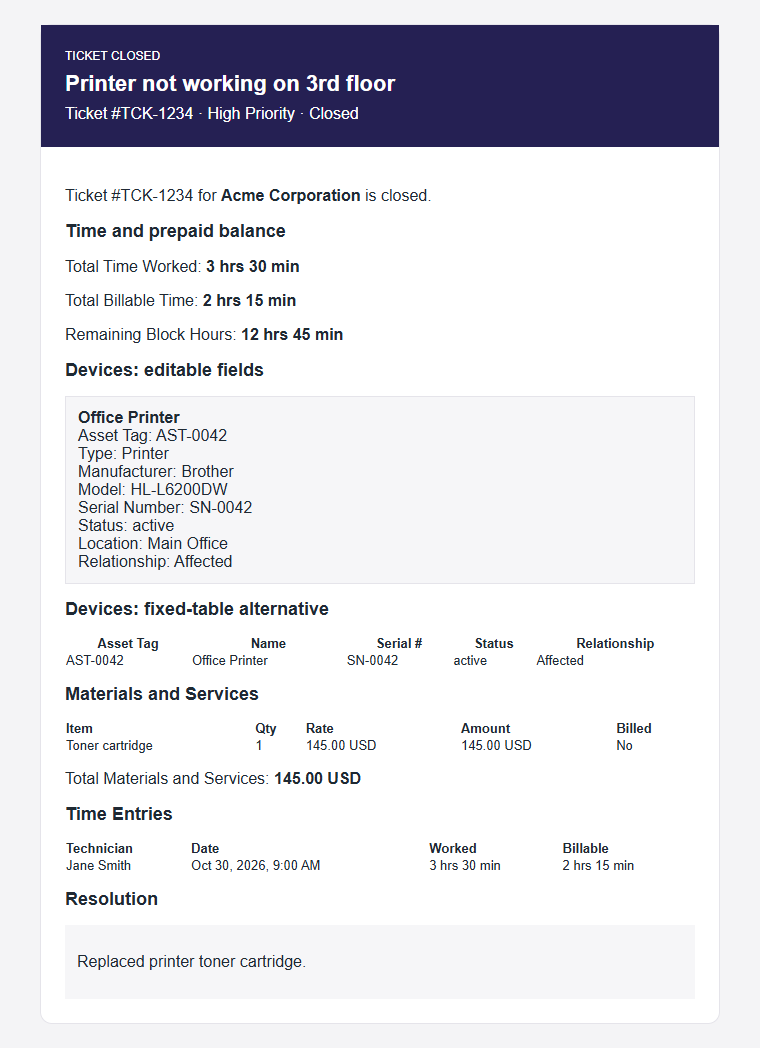
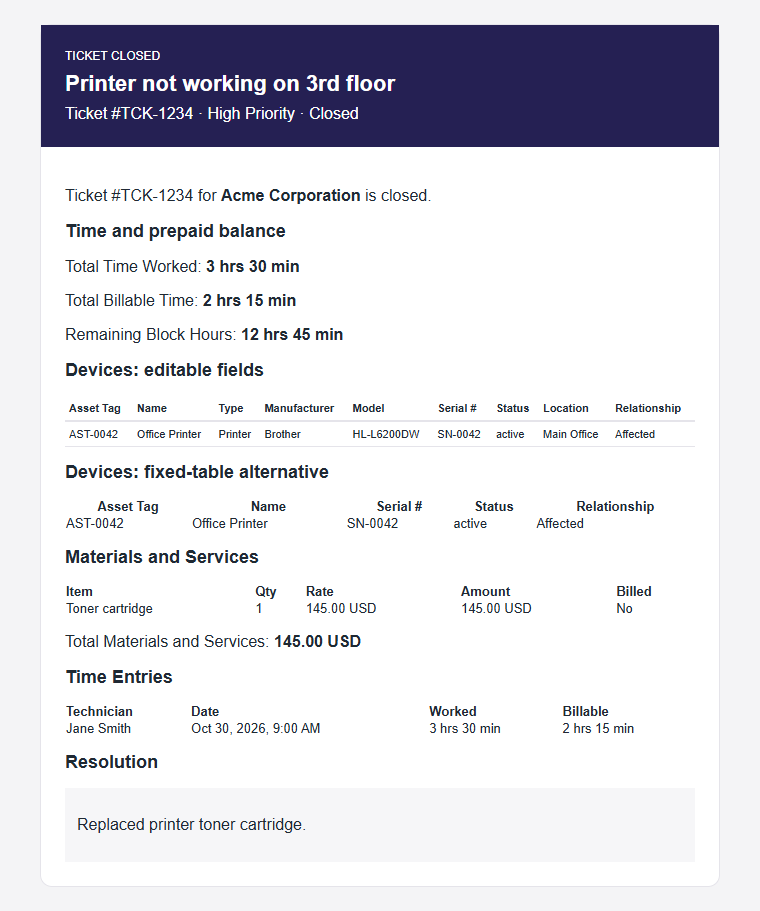
fix: present editable email asset fields as tables
Use selectable table columns in the variable example and HTML editing guide; regenerate full-field and omitted-column screenshots.

diff --git a/packages/notifications/src/lib/templateVariables/seed.ts b/packages/notifications/src/lib/templateVariables/seed.ts
@@ -2933,9 +2933,9 @@ export const templateVariableSeed: TemplateVariableSeedCategory[] = [
             "path": "ticket.assets",
             "type": "array",
             "description": "Linked ticket assets with individually selectable fields. Use {{#each ticket.assets}} to control the HTML or plain-text layout; include only the fields you want.",
-            "example": "{{#each ticket.assets}}<div><strong>{{name}}</strong><br>Type: {{assetType}}<br>{{manufacturer}} {{model}}<br>Serial: {{serialNumber}}</div>{{/each}}",
+            "example": "<table style=\"border-collapse:collapse;width:100%;table-layout:fixed;font-size:13px;text-align:left;\"><thead><tr><th style=\"padding:6px 10px;border-bottom:2px solid #e5e4ea;\">Name</th><th style=\"padding:6px 10px;border-bottom:2px solid #e5e4ea;\">Type</th><th style=\"padding:6px 10px;border-bottom:2px solid #e5e4ea;\">Manufacturer / Model</th><th style=\"padding:6px 10px;border-bottom:2px solid #e5e4ea;\">Serial #</th></tr></thead><tbody>{{#each ticket.assets}}<tr style=\"vertical-align:top;overflow-wrap:anywhere;\"><td style=\"padding:6px 10px;border-bottom:1px solid #e5e4ea;\">{{name}}</td><td style=\"padding:6px 10px;border-bottom:1px solid #e5e4ea;\">{{assetType}}</td><td style=\"padding:6px 10px;border-bottom:1px solid #e5e4ea;\">{{manufacturer}} {{model}}</td><td style=\"padding:6px 10px;border-bottom:1px solid #e5e4ea;\">{{serialNumber}}</td></tr>{{/each}}</tbody></table>",
             "availability": "available-unused",
-            "notes": "Added 2026-10-30. All fields are optional in your markup, including assetTag. Inside the loop use {{assetTag}}, {{name}}, {{assetType}}, {{manufacturer}}, {{model}}, {{serialNumber}}, {{status}}, {{location}}, or {{relationship}}. Use double braces to escape asset values safely; {{#if serialNumber}}Serial: {{serialNumber}}{{/if}} hides missing values. Empty list when no assets are linked. The example deliberately omits assetTag, status, location, and relationship; add or remove lines as desired. ticket.assetsHtml remains the fixed-layout alternative."
+            "notes": "Added 2026-10-30. All fields are optional in your markup, including assetTag. Inside the row loop use {{assetTag}}, {{name}}, {{assetType}}, {{manufacturer}}, {{model}}, {{serialNumber}}, {{status}}, {{location}}, or {{relationship}}. Use double braces to escape asset values safely. Empty list when no assets are linked. The editable table example deliberately omits assetTag, status, location, and relationship. To add or omit a column, change both its header th and its row td; retain empty cells for missing values so columns stay aligned. ticket.assetsHtml remains the fixed-layout alternative."
           },
           {
             "path": "ticket.assets[].assetTag",

diff --git a/packages/notifications/src/lib/templateVariables/registry.test.ts b/packages/notifications/src/lib/templateVariables/registry.test.ts
@@ -27,6 +27,9 @@ describe("email template variable registry", () => {
     const example = entry.variables.find((variable) => variable.path === "ticket.assets")!;
     const data = getNestedTemplateExampleData("ticket-closed");
     const html = Handlebars.compile(example.example, { strict: true })(data);
+    expect(html).toContain("<table");
+    expect(html.match(/<th /g)).toHaveLength(4);
+    expect(html.match(/<td /g)).toHaveLength(4);
     expect(html).toContain("Office Printer");
     expect(html).toContain("Printer");
     expect(html).toContain("Brother HL-L6200DW");

diff --git a/packages/notifications/src/components/settings/EmailTemplatePreview.test.ts b/packages/notifications/src/components/settings/EmailTemplatePreview.test.ts
@@ -30,6 +30,9 @@ describe('replaceTemplateVariables #each handling', () => {
     expect(html).toContain('Office Printer');
     expect(html).toContain('Brother HL-L6200DW');
     expect(html).toContain('SN-0042');
+    expect(html).toContain('<table');
+    expect(html.match(/<th /g)).toHaveLength(4);
+    expect(html.match(/<td /g)).toHaveLength(4);
     expect(html).not.toContain('{{');
     expect(html).not.toContain('AST-0042');
     expect(replaceTemplateVariables('{{#each ticket.assets}}{{this.assetTag}}{{/each}}', data)).toBe('AST-0042');

diff --git a/packages/notifications/src/components/settings/TemplateVariableReference.tsx b/packages/notifications/src/components/settings/TemplateVariableReference.tsx
@@ -18,7 +18,7 @@ const DOCUMENTATION_URL =
   "https://algapsa.com/documentation/email-template-variables";
 
 function tokenFor(variable: VariableDef): string {
-  if (variable.type === "array" && variable.example.startsWith("{{#each ")) {
+  if (variable.type === "array" && variable.example.includes("{{#each ")) {
     return variable.example;
   }
   const path = variable.path.includes("[].")

diff --git a/docs/email/editing-ticket-email-html.md b/docs/email/editing-ticket-email-html.md
@@ -92,19 +92,36 @@ documentation only; normally choose one. The stock template is not replaced.
 
         {{#if ticket.assets}}
         <h2 style="font-size:18px;">Devices: editable fields</h2>
-        {{#each ticket.assets}}
-        <div style="padding:12px;margin:12px 0;background:#f6f6f8;border:1px solid #e5e4ea;">
-          <strong>{{name}}</strong><br>
-          Asset Tag: {{assetTag}}<br>
-          Type: {{assetType}}<br>
-          Manufacturer: {{manufacturer}}<br>
-          Model: {{model}}<br>
-          Serial Number: {{serialNumber}}<br>
-          Status: {{status}}<br>
-          Location: {{location}}<br>
-          Relationship: {{relationship}}
-        </div>
-        {{/each}}
+        <table cellpadding="0" cellspacing="0" style="border-collapse:collapse;width:100%;font-size:11px;color:#1f2933;">
+          <thead>
+            <tr style="text-align:left;vertical-align:top;">
+              <th style="padding:6px 4px;border-bottom:2px solid #e5e4ea;">Asset Tag</th>
+              <th style="padding:6px 4px;border-bottom:2px solid #e5e4ea;">Name</th>
+              <th style="padding:6px 4px;border-bottom:2px solid #e5e4ea;">Type</th>
+              <th style="padding:6px 4px;border-bottom:2px solid #e5e4ea;">Manufacturer</th>
+              <th style="padding:6px 4px;border-bottom:2px solid #e5e4ea;">Model</th>
+              <th style="padding:6px 4px;border-bottom:2px solid #e5e4ea;">Serial #</th>
+              <th style="padding:6px 4px;border-bottom:2px solid #e5e4ea;">Status</th>
+              <th style="padding:6px 4px;border-bottom:2px solid #e5e4ea;">Location</th>
+              <th style="padding:6px 4px;border-bottom:2px solid #e5e4ea;">Relationship</th>
+            </tr>
+          </thead>
+          <tbody>
+            {{#each ticket.assets}}
+            <tr style="vertical-align:top;overflow-wrap:anywhere;">
+              <td style="padding:6px 4px;border-bottom:1px solid #e5e4ea;">{{assetTag}}</td>
+              <td style="padding:6px 4px;border-bottom:1px solid #e5e4ea;">{{name}}</td>
+              <td style="padding:6px 4px;border-bottom:1px solid #e5e4ea;">{{assetType}}</td>
+              <td style="padding:6px 4px;border-bottom:1px solid #e5e4ea;">{{manufacturer}}</td>
+              <td style="padding:6px 4px;border-bottom:1px solid #e5e4ea;">{{model}}</td>
+              <td style="padding:6px 4px;border-bottom:1px solid #e5e4ea;">{{serialNumber}}</td>
+              <td style="padding:6px 4px;border-bottom:1px solid #e5e4ea;">{{status}}</td>
+              <td style="padding:6px 4px;border-bottom:1px solid #e5e4ea;">{{location}}</td>
+              <td style="padding:6px 4px;border-bottom:1px solid #e5e4ea;">{{relationship}}</td>
+            </tr>
+            {{/each}}
+          </tbody>
+        </table>
         {{/if}}
 
         {{#if ticket.assetsHtml}}
@@ -144,20 +161,33 @@ status, location, and relationship.
 ```html
 {{#if ticket.assets}}
 <h2 style="font-size:18px;">Devices</h2>
-{{#each ticket.assets}}
-<div style="padding:12px;margin:12px 0;background:#f6f6f8;border:1px solid #e5e4ea;">
-  <strong>{{name}}</strong><br>
-  Type: {{assetType}}<br>
-  {{manufacturer}} {{model}}<br>
-  {{#if serialNumber}}Serial Number: {{serialNumber}}{{/if}}
-</div>
-{{/each}}
+<table cellpadding="0" cellspacing="0" style="border-collapse:collapse;width:100%;table-layout:fixed;font-size:13px;color:#1f2933;">
+  <thead>
+    <tr style="text-align:left;vertical-align:top;overflow-wrap:anywhere;">
+      <th style="padding:6px 10px;border-bottom:2px solid #e5e4ea;">Name</th>
+      <th style="padding:6px 10px;border-bottom:2px solid #e5e4ea;">Type</th>
+      <th style="padding:6px 10px;border-bottom:2px solid #e5e4ea;">Manufacturer / Model</th>
+      <th style="padding:6px 10px;border-bottom:2px solid #e5e4ea;">Serial #</th>
+    </tr>
+  </thead>
+  <tbody>
+    {{#each ticket.assets}}
+    <tr style="vertical-align:top;overflow-wrap:anywhere;">
+      <td style="padding:6px 10px;border-bottom:1px solid #e5e4ea;">{{name}}</td>
+      <td style="padding:6px 10px;border-bottom:1px solid #e5e4ea;">{{assetType}}</td>
+      <td style="padding:6px 10px;border-bottom:1px solid #e5e4ea;">{{manufacturer}} {{model}}</td>
+      <td style="padding:6px 10px;border-bottom:1px solid #e5e4ea;">{{serialNumber}}</td>
+    </tr>
+    {{/each}}
+  </tbody>
+</table>
 {{/if}}
 ```
 
-To restore the tag, add `Asset Tag: {{assetTag}}<br>` inside the loop.
-To omit another value, remove its line. For a table layout, remove both the
-column's `<th>` and corresponding `<td>`; removing just the value leaves an
+To restore the tag, add an `Asset Tag` header cell and a corresponding
+`<td>{{assetTag}}</td>` inside the row loop, using the same padding and border
+styles as the other cells. To omit any column, remove both the column's `<th>`
+and corresponding `<td>`; removing just the value leaves an
 empty column. You cannot customize columns inside `ticket.assetsHtml` from
 the template: use `ticket.assets` instead.
 
@@ -167,8 +197,10 @@ individual time entries while retaining the time totals. Likewise, remove
 the Remaining Block Hours paragraph if that balance should not be shared.
 Do not merely remove a variable while leaving its label behind.
 
-`{{#if serialNumber}}` hides the label as well as the value when that field is
-missing. `{{#if ticket.assets}}` hides the section for an empty asset list.
+Keep the same number of cells in every row. Do not conditionally remove a
+single `<td>` when its value is missing: leave it empty or put a conditional
+inside it, such as `<td>{{#if serialNumber}}{{serialNumber}}{{else}}Not recorded{{/if}}</td>`.
+`{{#if ticket.assets}}` hides the section for an empty asset list.
 The preview displays registry examples, not real-time account balances; verify
 empty-data cases and actual delivery with a test ticket.
 

diff --git a/docs/plans/2026-07-17-email-template-variables-plan.md b/docs/plans/2026-07-17-email-template-variables-plan.md
@@ -221,20 +221,25 @@ tenant's registry display name, or the stored slug when no matching type exists.
 Choose any subset of fields in the template. For example, this omits asset tags:
 
 ```handlebars
-{{#each ticket.assets}}
-<div>
-  <strong>{{name}}</strong><br>
-  Type: {{assetType}}<br>
-  {{manufacturer}} {{model}}<br>
-  {{#if serialNumber}}Serial: {{serialNumber}}{{/if}}
-</div>
-{{/each}}
+<table>
+  <thead><tr><th>Name</th><th>Type</th><th>Manufacturer / Model</th><th>Serial #</th></tr></thead>
+  <tbody>
+    {{#each ticket.assets}}
+    <tr><td>{{name}}</td><td>{{assetType}}</td><td>{{manufacturer}} {{model}}</td><td>{{serialNumber}}</td></tr>
+    {{/each}}
+  </tbody>
+</table>
 ```
 
-Add `{{assetTag}}` inside the loop to show tags, or remove any other line to hide
-that field. Use ordinary double braces for asset values so Handlebars escapes
+Add a tag header and corresponding `{{assetTag}}` cell inside the row loop to
+show tags. Remove both the header and cell to omit any column; keep empty cells
+for missing values so columns remain aligned.
+Use ordinary double braces for asset values so Handlebars escapes
 HTML. Plain-text templates can use the same loop without the HTML tags.
 The variables panel inserts the loop example for `ticket.assets` and
 `{{this.fieldName}}` for individual fields (insert those inside the loop).
 The existing `ticket.assetsHtml` remains the fixed five-column alternative;
 its preview now shows all five columns rather than only the asset tag.
+
+See the [HTML editing guide](../email/editing-ticket-email-html.md) for styled
+table examples and rendered screenshots of all fields and selected columns.
